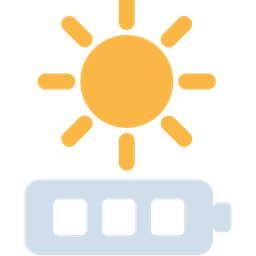
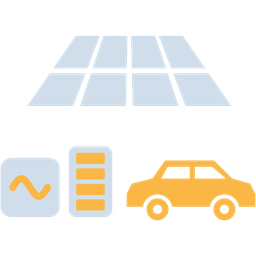
Brand: a PV array over an inverter, a battery and a car
The maintainer's choice from three drafts: the array on top, and in one row
under it a box around ~ for the inverter, an upright battery with four cells,
and the car. Slate and amber, no text, a light and a dark variant at 256 and
512 pixels, drawn by make_brand_icon.py. The preview sheet stays out of git
wherever it is written.

diff --git a/scripts/helpers/make_brand_icon.py b/scripts/helpers/make_brand_icon.py
@@ -12,10 +12,12 @@ wordmark or brand colours: this is a third-party community integration, and
 borrowing a manufacturer's trademark both risks the trademark and implies an
 endorsement that does not exist.
 
-What it shows: a rayed sun above a battery — solar generation and storage,
-which is exactly what an SH-series hybrid inverter is. Two shapes, two
-colours, and deliberately no more: the icon is displayed at around 32 pixels
-in Home Assistant's own UI, where anything finer turns to mush.
+What it shows: a PV array, and under it an inverter (a box around ~), a
+battery and a car -- generation, conversion, storage and the charge point this
+integration reads. Two colours, slate and amber, and no text: the icon is shown
+at about 32 pixels in Home Assistant's own UI, so every part is a plain
+silhouette, and the parts sit in one row under the array so none overlaps
+another. Chosen by the maintainer on 2026-11-07 from three drafts.
 
     python scripts/helpers/make_brand_icon.py            # writes the brand/ folder
     python scripts/helpers/make_brand_icon.py --preview  # also writes a large preview
@@ -34,74 +36,136 @@ BRAND = REPO / "custom_components" / "sungrow_modbus" / "brand"
 
 #: Drawn far larger than needed and downsampled, which is the cheapest way to
 #: get clean edges out of Pillow's non-antialiased primitives.
-SUPERSAMPLE = 8
+SUPERSAMPLE = 4
 SIZES = (512, 256)
 
-#: Warm amber for the sun and a deep slate for the flow. The amber carries on
-#: both light and dark backgrounds; the slate does not, which is why there is
-#: a separate dark variant that lifts it to a pale blue.
+#: Warm amber for what carries energy and a deep slate for the hardware. The
+#: amber carries on both light and dark backgrounds; the slate does not, which
+#: is why there is a separate dark variant that lifts it to a pale blue.
 LIGHT = {"sun": (245, 166, 35, 255), "flow": (38, 55, 71, 255)}
 DARK = {"sun": (250, 183, 70, 255), "flow": (208, 222, 235, 255)}
 
 
-def draw_mark(size: int, palette: dict[str, tuple[int, int, int, int]]) -> Image.Image:
-    """Draw the mark at ``size`` pixels square, on transparency.
+Colour = tuple[int, int, int, int]
+CLEAR: Colour = (0, 0, 0, 0)
 
-    Two shapes stacked and centred: a rayed sun above a battery. They are
-    deliberately different silhouettes — round over rectangular — so the mark
-    still reads at the ~32 pixels Home Assistant actually displays it at,
-    where any finer detail disappears.
-    """
-    s = size * SUPERSAMPLE
-    image = Image.new("RGBA", (s, s), (0, 0, 0, 0))
-    draw = ImageDraw.Draw(image)
+#: The car, side on, facing right, in a box one unit wide: the outline, the two
+#: windows (cut out) and the two wheel centres.
+CAR_OUTLINE = (
+    (0.00, 0.30), (0.04, 0.22), (0.20, 0.18), (0.30, 0.04), (0.68, 0.04),
+    (0.82, 0.18), (0.96, 0.22), (1.00, 0.30), (1.00, 0.40), (0.00, 0.40),
+)  # fmt: skip
+CAR_WINDOWS = (
+    ((0.32, 0.09), (0.49, 0.09), (0.49, 0.18), (0.27, 0.18)),
+    ((0.53, 0.09), (0.665, 0.09), (0.77, 0.18), (0.53, 0.18)),
+)
+CAR_WHEELS = (0.24, 0.76)
 
-    def box(cx, cy, w, h):
-        return [(cx - w / 2) * s, (cy - h / 2) * s, (cx + w / 2) * s, (cy + h / 2) * s]
 
-    # --- the sun: disc plus eight stubby rays, centred on the upper third.
-    sun_cx, sun_cy = 0.5, 0.285
-    draw.ellipse(box(sun_cx, sun_cy, 0.325, 0.325), fill=palette["sun"])
+class _Pen:
+    """Pillow's primitives in unit coordinates, on a supersampled canvas."""
 
-    ray_inner, ray_outer, ray_w = 0.208, 0.284, 0.056
-    for i in range(8):
-        angle = math.radians(i * 45)
-        dx, dy = math.cos(angle), math.sin(angle)
-        x0 = (sun_cx + dx * ray_inner) * s
-        y0 = (sun_cy + dy * ray_inner) * s
-        x1 = (sun_cx + dx * ray_outer) * s
-        y1 = (sun_cy + dy * ray_outer) * s
-        draw.line([x0, y0, x1, y1], fill=palette["sun"], width=int(ray_w * s))
-        # Round the ends; Pillow's line joins are square.
-        for px, py in ((x0, y0), (x1, y1)):
-            r = ray_w * s / 2
-            draw.ellipse([px - r, py - r, px + r, py + r], fill=palette["sun"])
+    def __init__(self, size: int) -> None:
+        self.n = size * SUPERSAMPLE
+        self.image = Image.new("RGBA", (self.n, self.n), CLEAR)
+        self.draw = ImageDraw.Draw(self.image)
 
-    # --- the battery: a wide block with a terminal, centred below the sun.
-    body_w, body_h = 0.66, 0.265
-    body_cx, body_cy = 0.472, 0.760
-    draw.rounded_rectangle(
-        box(body_cx, body_cy, body_w, body_h), radius=0.055 * s, fill=palette["flow"]
-    )
-    draw.rounded_rectangle(
-        box(body_cx + body_w / 2 + 0.032, body_cy, 0.064, 0.105),
-        radius=0.020 * s,
-        fill=palette["flow"],
-    )
+    def at(self, x: float, y: float) -> tuple[float, float]:
+        return (x * self.n, y * self.n)
 
-    # Charge cells knocked back out, which is what makes the block a battery
-    # rather than a bar.
-    cell_w, cell_h, gap = 0.116, 0.125, 0.055
-    span = cell_w * 3 + gap * 2
-    first = body_cx - span / 2 + cell_w / 2
-    for i in range(3):
-        draw.rounded_rectangle(
-            box(first + i * (cell_w + gap), body_cy, cell_w, cell_h),
-            radius=0.018 * s,
-            fill=(0, 0, 0, 0),
+    def polygon(self, points: tuple[tuple[float, float], ...], fill: Colour) -> None:
+        self.draw.polygon([self.at(x, y) for x, y in points], fill=fill)
+
+    def box(
+        self, cx: float, cy: float, w: float, h: float, r: float, fill: Colour
+    ) -> None:
+        x0, y0 = self.at(cx - w / 2, cy - h / 2)
+        x1, y1 = self.at(cx + w / 2, cy + h / 2)
+        self.draw.rounded_rectangle([x0, y0, x1, y1], radius=r * self.n, fill=fill)
+
+    def disc(self, cx: float, cy: float, r: float, fill: Colour) -> None:
+        x0, y0 = self.at(cx - r, cy - r)
+        x1, y1 = self.at(cx + r, cy + r)
+        self.draw.ellipse([x0, y0, x1, y1], fill=fill)
+
+    def stroke(self, points: list[tuple[float, float]], w: float, fill: Colour) -> None:
+        """Draw a polyline with round ends and joins."""
+        width = max(1, int(w * self.n))
+        self.draw.line([self.at(x, y) for x, y in points], fill=fill, width=width)
+        for x, y in points:
+            self.disc(x, y, w / 2, fill)
+
+
+def _array(pen: _Pen, fill: Colour) -> None:
+    """Draw the PV array: a quad in perspective, cut into 4 x 2 modules."""
+    tl, tr, br, bl = (0.30, 0.06), (0.70, 0.06), (0.90, 0.34), (0.10, 0.34)
+    cols, rows, gap = 4, 2, 0.13
+
+    def at(u: float, v: float) -> tuple[float, float]:
+        top = (tl[0] + (tr[0] - tl[0]) * u, tl[1] + (tr[1] - tl[1]) * u)
+        bottom = (bl[0] + (br[0] - bl[0]) * u, bl[1] + (br[1] - bl[1]) * u)
+        return (top[0] + (bottom[0] - top[0]) * v, top[1] + (bottom[1] - top[1]) * v)
+
+    gu, gv = gap / cols, gap / rows
+    for i in range(cols):
+        for j in range(rows):
+            u0, u1 = i / cols + gu / 2, (i + 1) / cols - gu / 2
+            v0, v1 = j / rows + gv / 2, (j + 1) / rows - gv / 2
+            pen.polygon((at(u0, v0), at(u1, v0), at(u1, v1), at(u0, v1)), fill)
+
+
+def _inverter(pen: _Pen, box: Colour, wave: Colour) -> None:
+    """Draw the inverter: a box around ~."""
+    cx, cy, side = 0.13, 0.635, 0.22
+    pen.box(cx, cy, side, side, 0.038, box)
+    width, amplitude = 0.13, 0.033
+    points = [
+        (
+            cx - width / 2 + width * k / 60,
+            cy - amplitude * math.sin(2 * math.pi * k / 60),
         )
+        for k in range(61)
+    ]
+    pen.stroke(points, 0.026, wave)
 
-    return image.resize((size, size), Image.LANCZOS)
+
+def _battery(pen: _Pen, body: Colour, cells: Colour) -> None:
+    """Draw the battery: upright, four cells, its foot level with the inverter's."""
+    w, h = 0.19 * 0.85, 0.31 * 0.85
+    cx, cy = 0.355, 0.745 - h / 2
+    pen.box(cx, cy, w, h, 0.032 * 0.85, body)
+    cell, gap = 0.049 * 0.85, 0.019 * 0.85
+    top = cy - (cell * 4 + gap * 3) / 2 + cell / 2
+    for k in range(4):
+        pen.box(cx, top + k * (cell + gap), w - 0.064 * 0.85, cell, 0.008, cells)
+
+
+def _car(pen: _Pen, fill: Colour) -> None:
+    """Draw the car beside them, windows and hubs cut out."""
+    x, y, s = 0.49, 0.515, 0.48
+
+    def at(px: float, py: float) -> tuple[float, float]:
+        return (x + px * s, y + py * s)
+
+    pen.polygon(tuple(at(px, py) for px, py in CAR_OUTLINE), fill)
+    for window in CAR_WINDOWS:
+        pen.polygon(tuple(at(px, py) for px, py in window), CLEAR)
+    for wx in CAR_WHEELS:
+        cx, cy = at(wx, 0.42)
+        pen.disc(cx, cy, 0.115 * s, CLEAR)
+        pen.disc(cx, cy, 0.085 * s, fill)
+        pen.disc(cx, cy, 0.035 * s, CLEAR)
+
+
+def draw_mark(size: int, palette: dict[str, Colour]) -> Image.Image:
+    """Draw the mark at ``size`` pixels square, on transparency."""
+    pen = _Pen(size)
+    hardware, energy = palette["flow"], palette["sun"]
+    _array(pen, hardware)
+    _inverter(pen, hardware, energy)
+    _battery(pen, hardware, energy)
+    _car(pen, energy)
+    return pen.image.resize((size, size), Image.LANCZOS)
 
 
 def trimmed(image: Image.Image) -> Image.Image:
